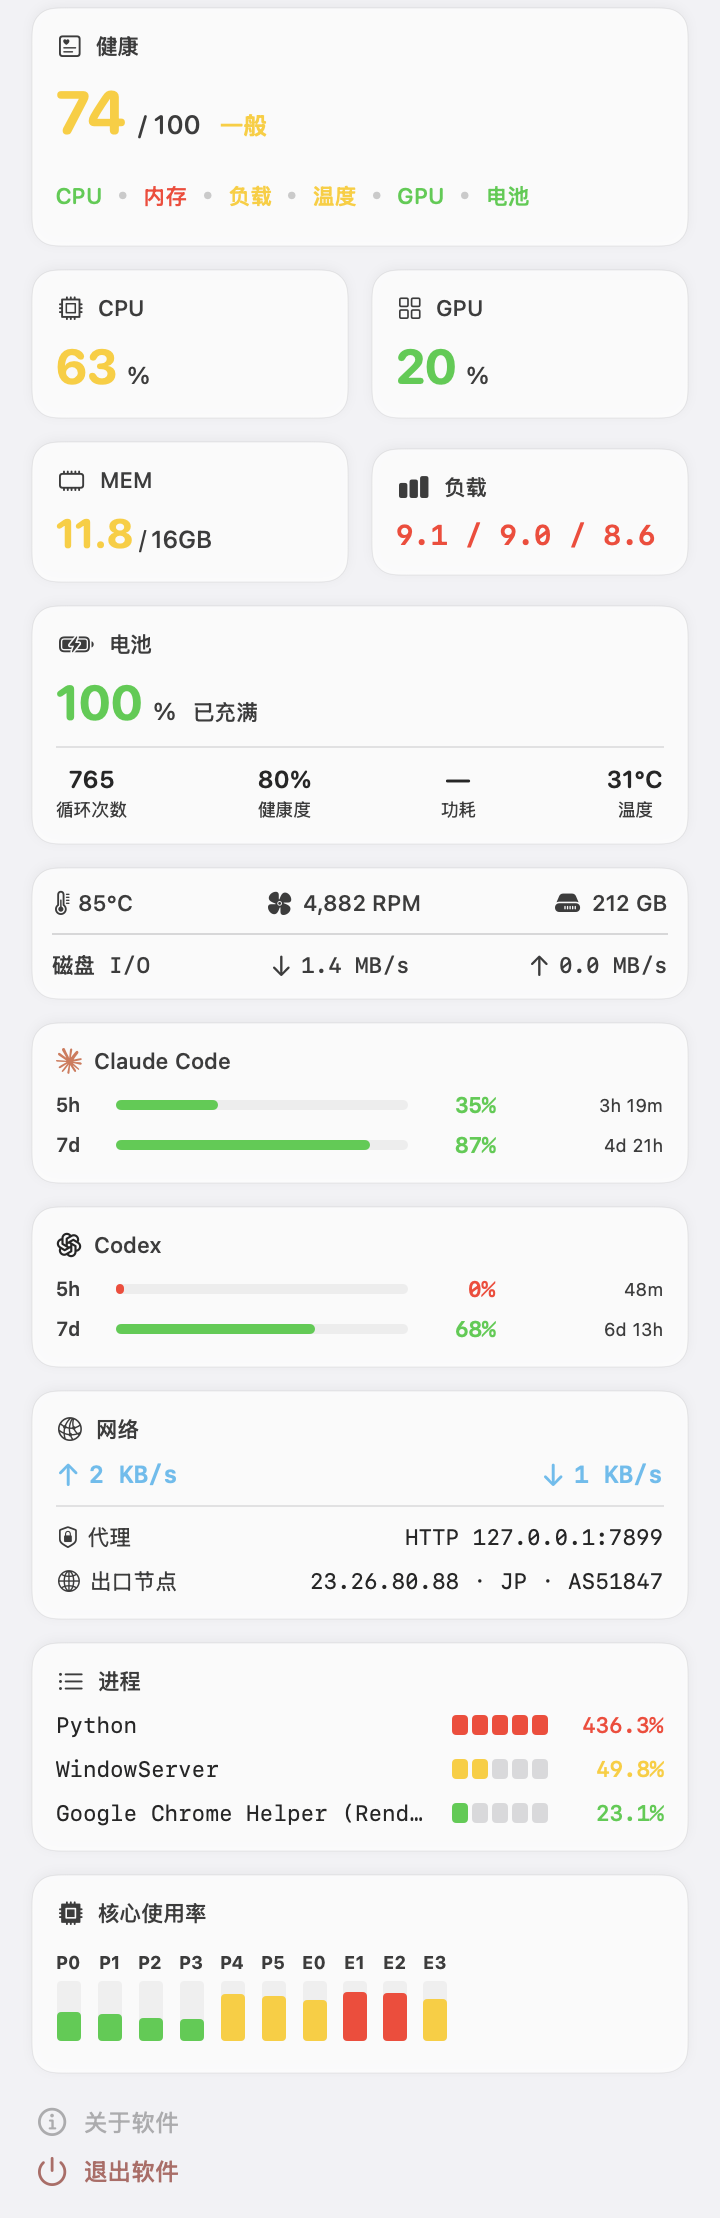
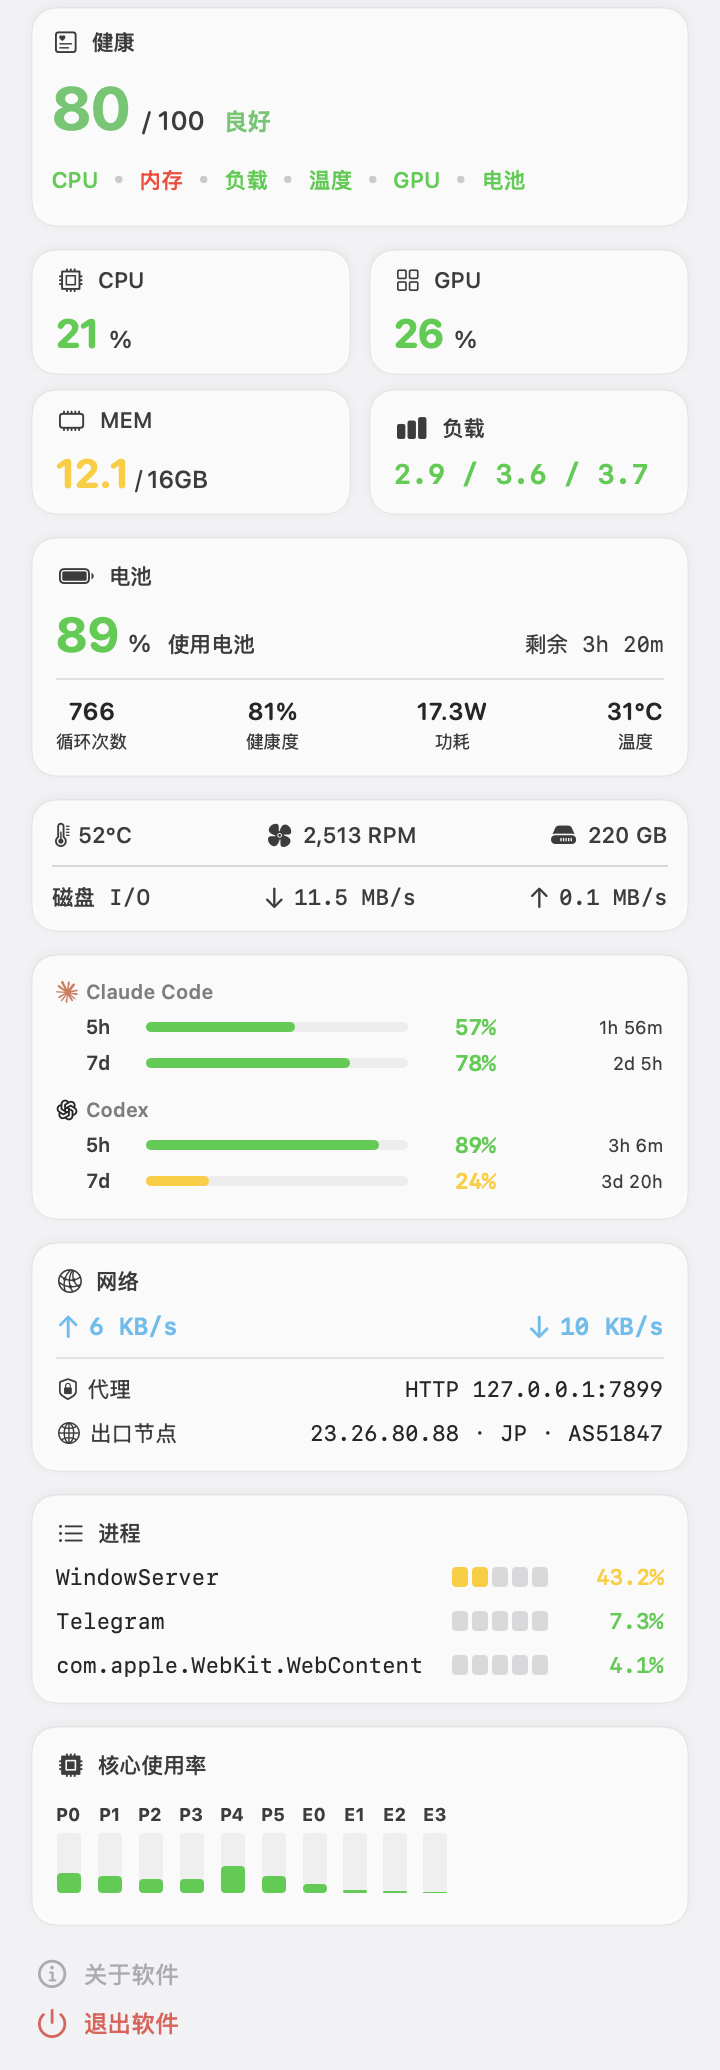
fix(i18n): 修复切换语言后部分文案不更新
- HealthCard 维度标签改为计算属性，避免 static let 缓存导致切换语言后停留在首次渲染语言
- 窗口控制文案去掉 Magnet 品牌词，标题栏手势改为「滑动分屏」以更易理解（en/ja/ko/zh 同步）

diff --git a/Light Stats/Views/Popover/OverviewTabView.swift b/Light Stats/Views/Popover/OverviewTabView.swift
@@ -557,22 +557,26 @@ private struct HealthCard: View {
         }
     }
 
-    private static let dimensionLabels: [(HealthScore.Dimension, String)] = [
-        (.cpu, "health.dimension.cpu".localized),
-        (.memory, "health.dimension.memory".localized),
-        (.load, "health.dimension.load".localized),
-        (.temperature, "health.dimension.temperature".localized),
-        (.gpu, "health.dimension.gpu".localized),
-        (.battery, "health.dimension.battery".localized),
-        (.diskIO, "health.dimension.diskIO".localized)
-    ]
+    // 计算属性而非 static let：static let 只在首次访问时求值并永久缓存，
+    // 切换语言后标签会停留在首次渲染时的语言。每次渲染重新读取 `.localized`。
+    private var dimensionLabels: [(HealthScore.Dimension, String)] {
+        [
+            (.cpu, "health.dimension.cpu".localized),
+            (.memory, "health.dimension.memory".localized),
+            (.load, "health.dimension.load".localized),
+            (.temperature, "health.dimension.temperature".localized),
+            (.gpu, "health.dimension.gpu".localized),
+            (.battery, "health.dimension.battery".localized),
+            (.diskIO, "health.dimension.diskIO".localized)
+        ]
+    }
 
     /// 各维度等级一览。颜色模式用圆点（`circle.fill` 内嵌进 Text，保留换行排版），
     /// 文字模式用「低/中/高」。两套并存，由设置项 `useColorIndicator` 决定。
     private var summaryText: Text {
         var result = Text(verbatim: "")
         var isFirst = true
-        for (dimension, label) in Self.dimensionLabels {
+        for (dimension, label) in dimensionLabels {
             guard let score = health.breakdown[dimension.rawValue] else { continue }
             if !isFirst {
                 // swiftlint:disable:next shorthand_operator
